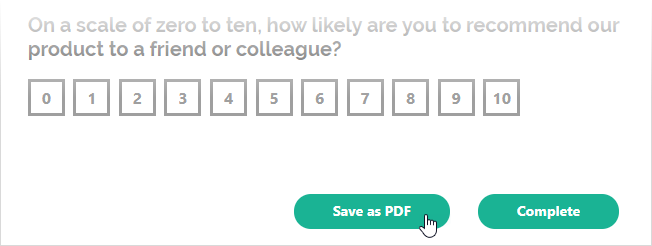
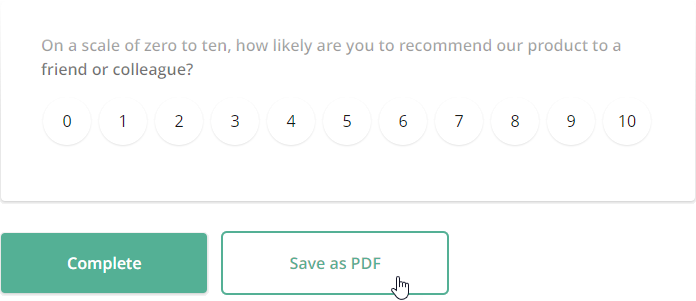
Replace the Modern theme with Default V2

diff --git a/docs/get-started-knockout.md b/docs/get-started-knockout.md
@@ -66,7 +66,7 @@ survey.addNavigationItem({
 });
 ```
 
-The following image illustrates the resulting UI with the [Modern theme](/Documentation/Library?id=get-started-knockout#link-surveyjs-resources) applied:
+The following image illustrates the resulting UI with the [Default V2 theme](/Documentation/Library?id=get-started-knockout#link-surveyjs-resources) applied:
 
 ![Export Survey to PDF - Save as PDF navigation button](images/surveypdf-navigation-button.png)
 
@@ -84,7 +84,7 @@ The following image illustrates the resulting UI with the [Modern theme](/Docume
     <!-- jsPDF library -->
     <script src="https://unpkg.com/jspdf@latest/dist/jspdf.umd.min.js"></script>
 
-    <link href="https://unpkg.com/survey-knockout/modern.min.css" type="text/css" rel="stylesheet">
+    <link href="https://unpkg.com/survey-knockout/defaultV2.min.css" type="text/css" rel="stylesheet">
     <script type="text/javascript" src="https://unpkg.com/survey-knockout/survey.ko.min.js"></script>
 
     <!-- SurveyJS PDF Export library -->
@@ -99,7 +99,7 @@ The following image illustrates the resulting UI with the [Modern theme](/Docume
 ```
 
 ```js
-Survey.StylesManager.applyTheme("modern");
+Survey.StylesManager.applyTheme("defaultV2");
 
 const surveyJson = {
     // ...

diff --git a/docs/get-started-jquery.md b/docs/get-started-jquery.md
@@ -66,7 +66,7 @@ survey.addNavigationItem({
 });
 ```
 
-The following image illustrates the resulting UI with the [Modern theme](/Documentation/Library?id=get-started-jquery#link-surveyjs-resources) applied:
+The following image illustrates the resulting UI with the [Default V2 theme](/Documentation/Library?id=get-started-jquery#link-surveyjs-resources) applied:
 
 ![Export Survey to PDF - Save as PDF navigation button](images/surveypdf-navigation-button.png)
 
@@ -84,7 +84,7 @@ The following image illustrates the resulting UI with the [Modern theme](/Docume
     <!-- jsPDF library -->
     <script src="https://unpkg.com/jspdf@latest/dist/jspdf.umd.min.js"></script>
 
-    <link href="https://unpkg.com/survey-jquery/modern.min.css" type="text/css" rel="stylesheet">
+    <link href="https://unpkg.com/survey-jquery/defaultV2.min.css" type="text/css" rel="stylesheet">
     <script type="text/javascript" src="https://unpkg.com/survey-jquery/survey.jquery.min.js"></script>
 
     <!-- SurveyJS PDF Export library -->
@@ -99,7 +99,7 @@ The following image illustrates the resulting UI with the [Modern theme](/Docume
 ```
 
 ```js
-Survey.StylesManager.applyTheme("modern");
+Survey.StylesManager.applyTheme("defaultV2");
 
 const surveyJson = {
     // ...

diff --git a/docs/get-started-vue.md b/docs/get-started-vue.md
@@ -56,7 +56,7 @@ You can use any UI element to call this helper function. For instance, the follo
 </template>
 
 <script>
-import 'survey-core/modern.min.css';
+import 'survey-core/defaultV2.min.css';
 import { Model } from 'survey-core';
 import { Survey } from 'survey-vue-ui';
 // ...
@@ -82,7 +82,7 @@ export default {
 </script>
 ```
 
-The following image illustrates the resulting UI with the [Modern theme](/Documentation/Library?id=get-started-vue#configure-styles) applied:
+The following image illustrates the resulting UI with the [Default V2 theme](/Documentation/Library?id=get-started-vue#configure-styles) applied:
 
 ![Export Survey to PDF - Save as PDF navigation button](images/surveypdf-navigation-button.png)
 
@@ -99,12 +99,12 @@ To view the application, run `npm run serve` in a command line and open [http://
 </template>
 
 <script>
-import 'survey-core/modern.min.css';
+import 'survey-core/defaultV2.min.css';
 import { StylesManager, Model } from 'survey-core';
 import { Survey } from 'survey-vue-ui';
 import { SurveyPDF } from 'survey-pdf';
 
-StylesManager.applyTheme("modern");
+StylesManager.applyTheme("defaultV2");
 
 const surveyJson = {
   // ...

diff --git a/docs/get-started-react.md b/docs/get-started-react.md
@@ -69,7 +69,7 @@ function App() {
 export default App;
 ```
 
-The following image illustrates the resulting UI with the [Modern theme](/Documentation/Library?id=get-started-react#configure-styles) applied:
+The following image illustrates the resulting UI with the [Default V2 theme](/Documentation/Library?id=get-started-react#configure-styles) applied:
 
 ![Export Survey to PDF - Save as PDF navigation button](images/surveypdf-navigation-button.png)
 
@@ -81,12 +81,12 @@ To view the application, run `npm run start` in a command line and open [http://
 ```js
 import './App.css'
 
-import 'survey-core/modern.min.css';
+import 'survey-core/defaultV2.min.css';
 import { StylesManager, Model } from 'survey-core';
 import { Survey } from 'survey-react-ui';
 import { SurveyPDF } from 'survey-pdf';
 
-StylesManager.applyTheme("modern");
+StylesManager.applyTheme("defaultV2");
 
 const surveyJson = {
   // ...

diff --git a/docs/get-started-angular.md b/docs/get-started-angular.md
@@ -70,7 +70,7 @@ export class AppComponent implements OnInit {
 }
 ```
 
-The following image illustrates the resulting UI with the [Modern theme](/Documentation/Library?id=get-started-angular#configure-styles) applied:
+The following image illustrates the resulting UI with the [Default V2 theme](/Documentation/Library?id=get-started-angular#configure-styles) applied:
 
 ![Export Survey to PDF - Save as PDF navigation button](images/surveypdf-navigation-button.png)
 
@@ -84,7 +84,7 @@ import { Component, OnInit } from '@angular/core';
 import { Model, StylesManager, SurveyNG } from "survey-angular";
 import { SurveyPDF, IDocOptions } from "survey-pdf";
 
-StylesManager.applyTheme("modern");
+StylesManager.applyTheme("defaultV2");
 
 const surveyJson = {
   // ...
